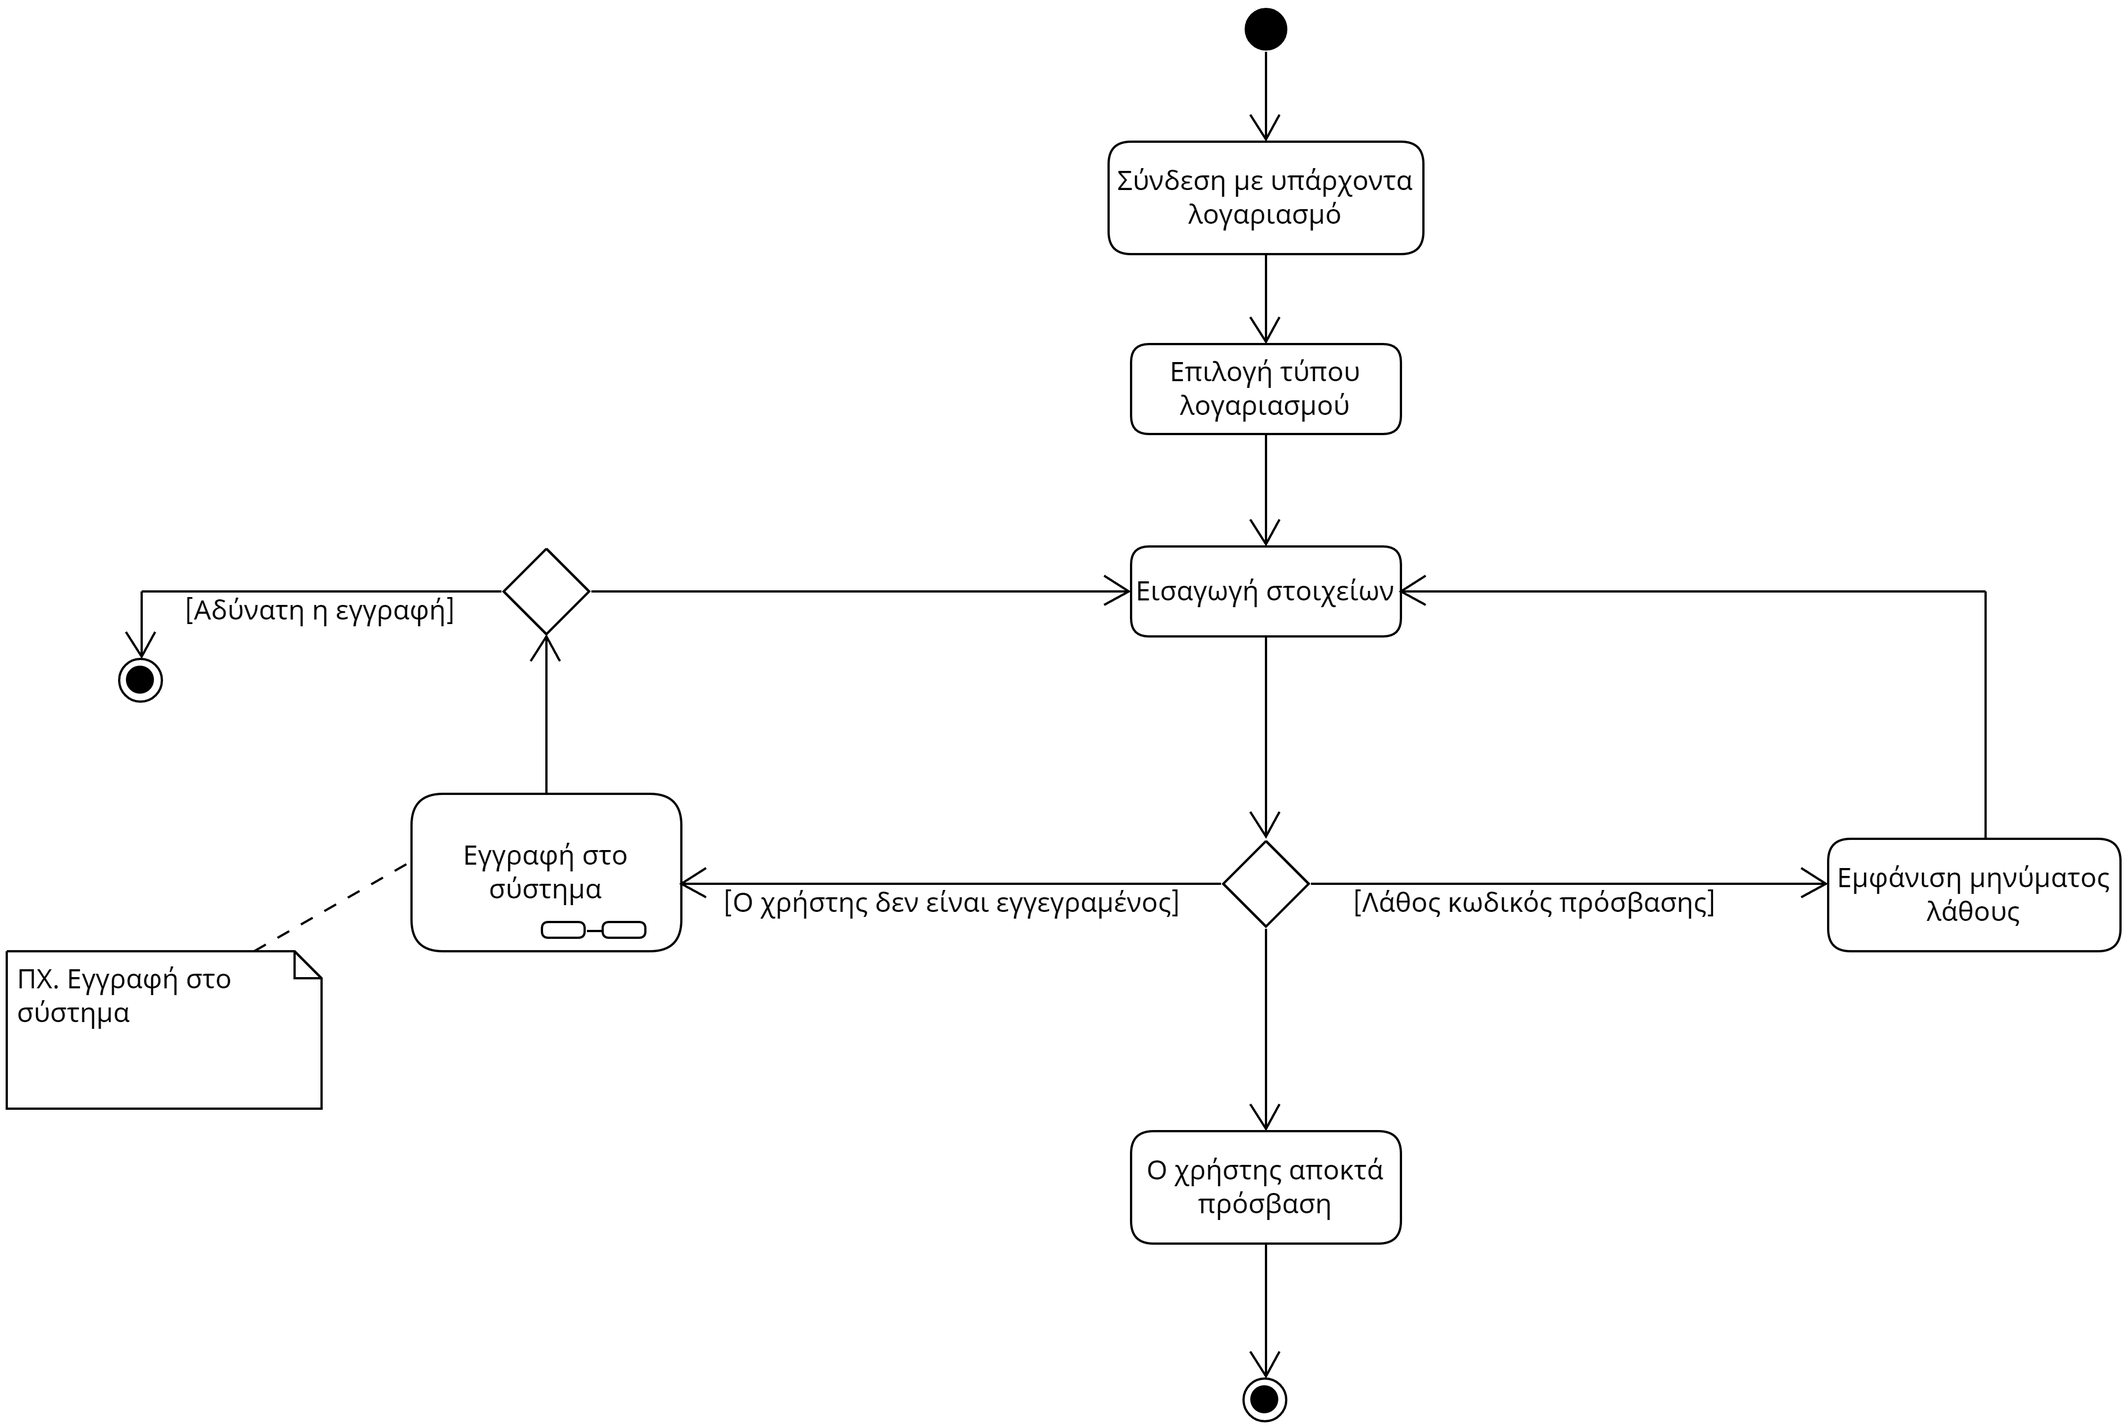
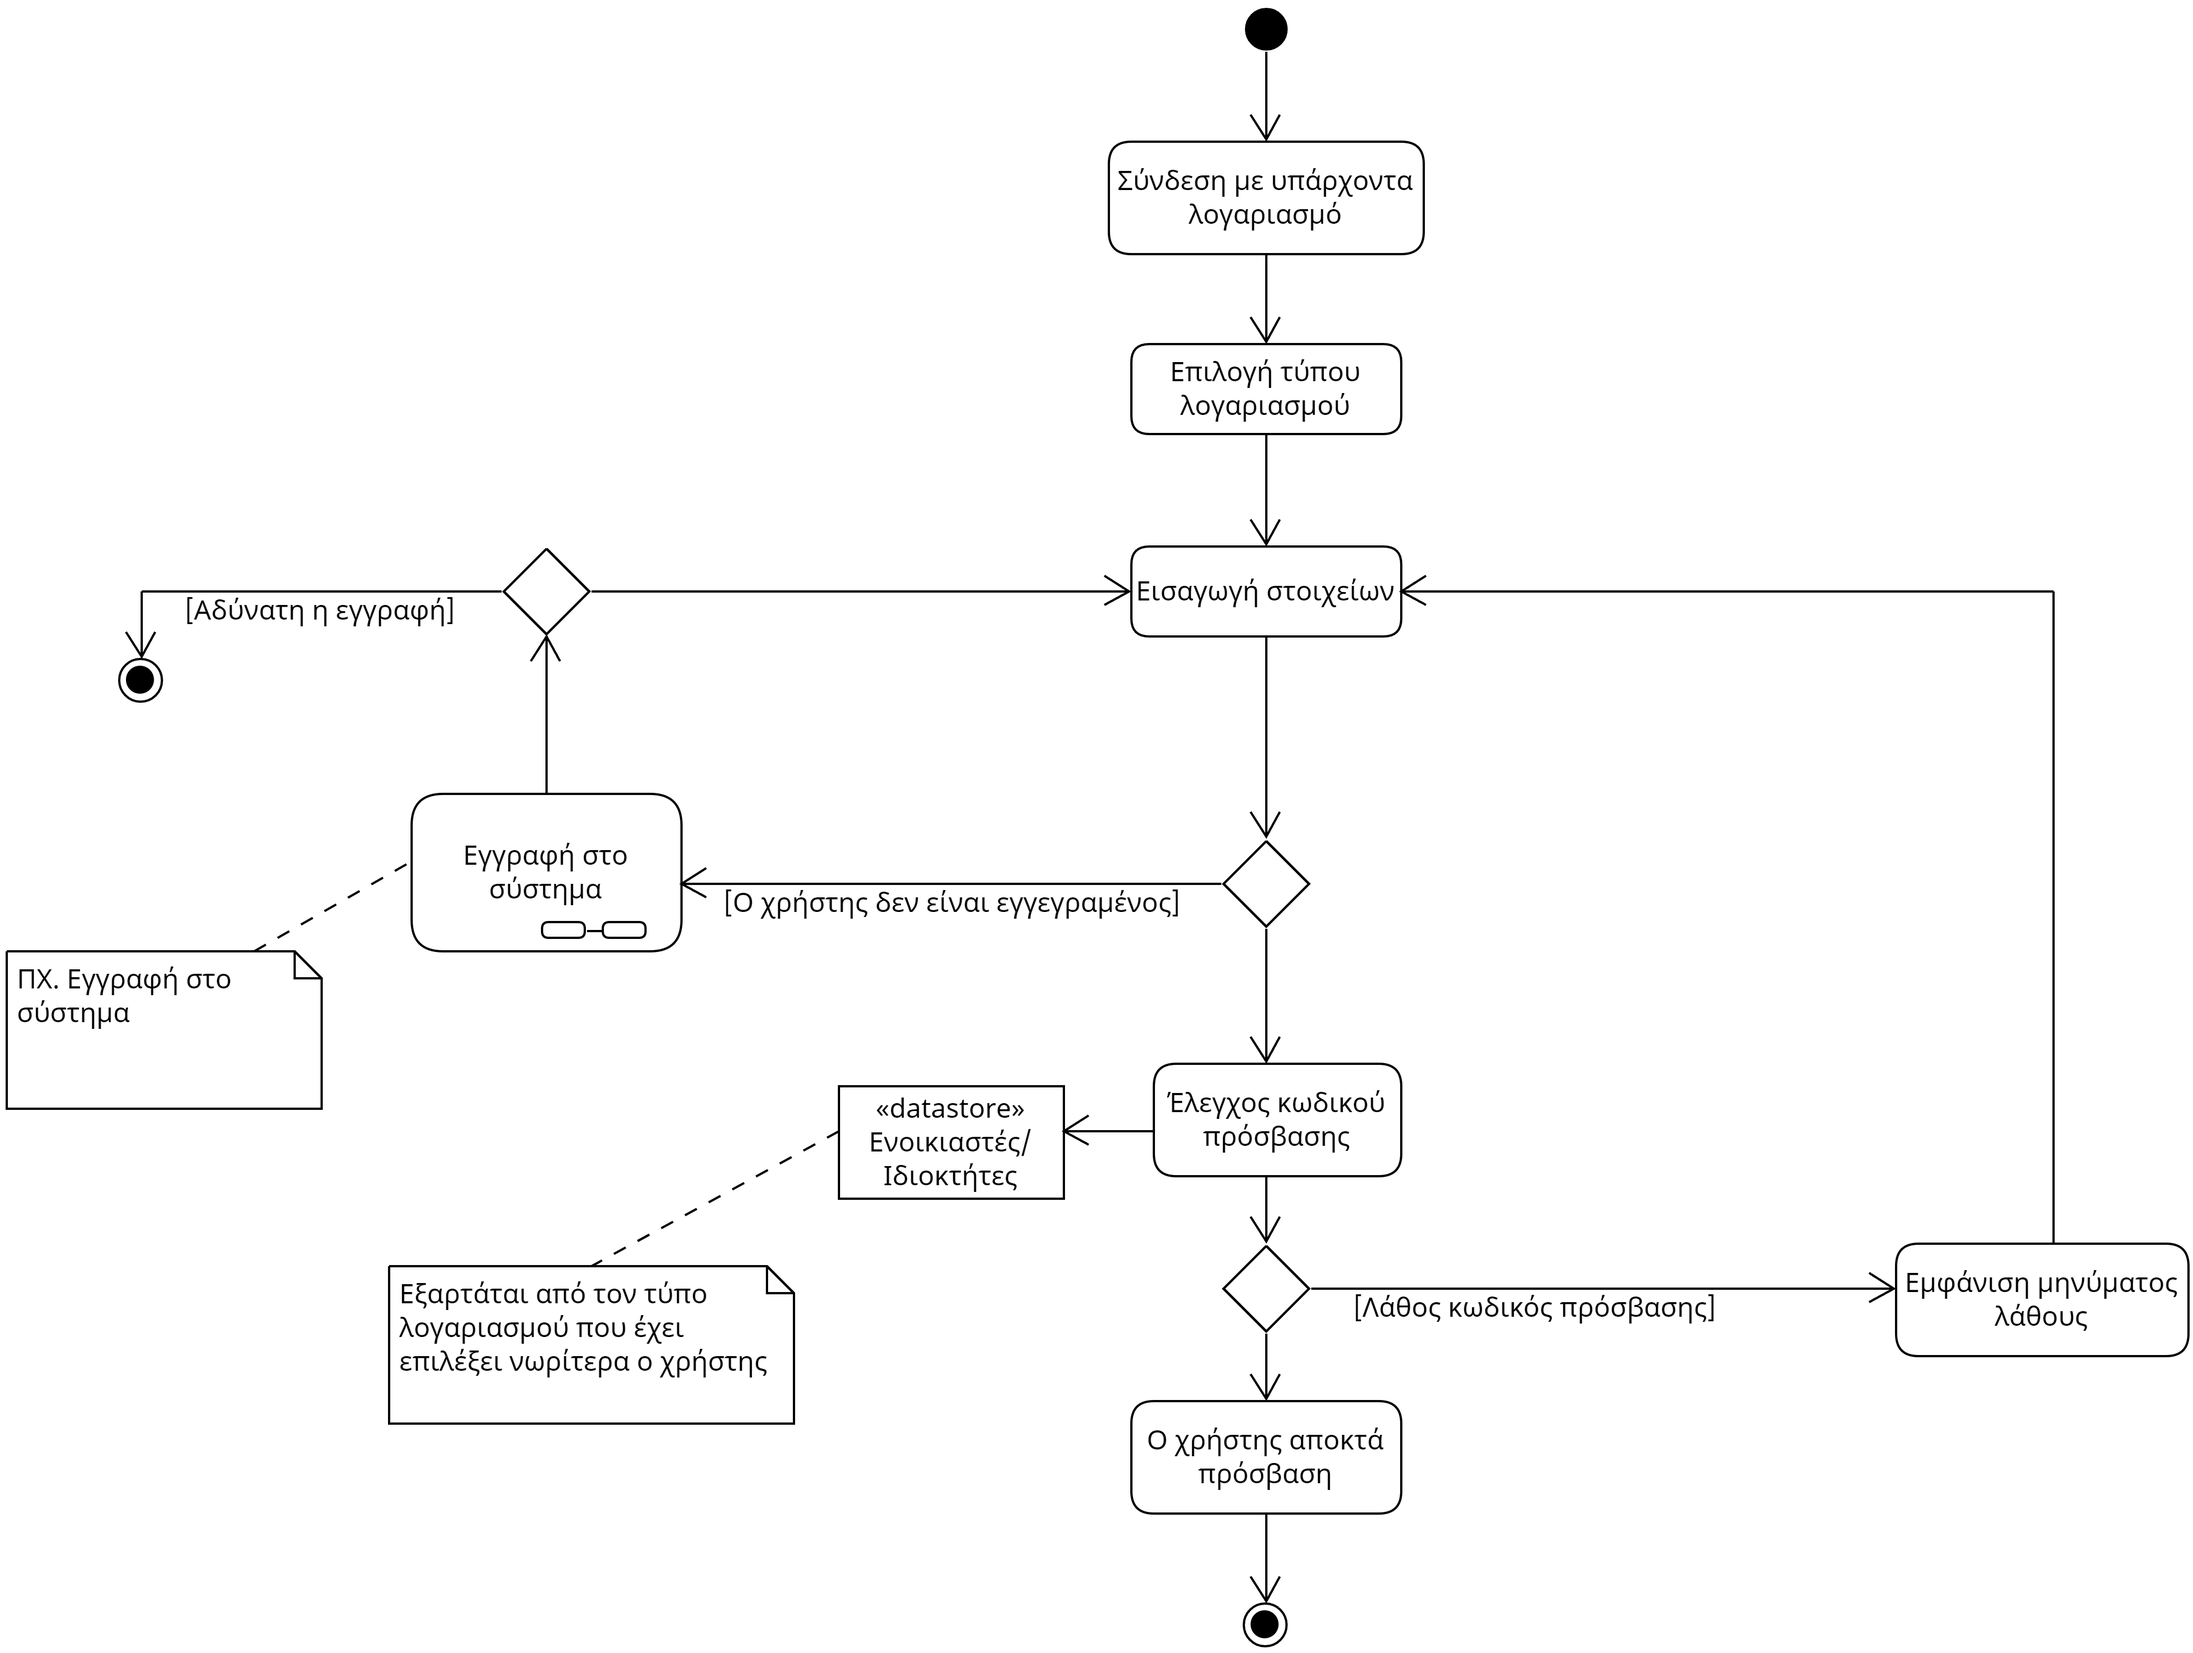
domain model 1.0

diff --git a/docs/markdown/uc7_owner_house_register.md b/docs/markdown/uc7_owner_house_register.md
@@ -13,18 +13,8 @@
 4. Ο ιδιοκτήτης μπορεί να ορίσει διάφορες πολιτικές χρέωσης για συγκεκριμένες χρονικές περιόδους οι οποίες θα είναι μη επικαλυπτόμενες. 
 5. Έλεγχος αν οι πολιτικές χρέωσης υπακούουν τους περιορισμούς που ορίζει το σύστημα ανάλογα με τις ιδιότητες του διαμερίσματος (περιοχή, τετραγωνικά).
 6. Το σύστημα ελέγχει την εγκυρότητα της καταχώρισης.
-7. Ο ιδιοκτήτης επιλέγει αν θέλει να προωθήσει την αγγελία του.
-
-### Β) Ενημέρωση Διαμερίσματος
-1. Ο ιδιοκτήτης επιλέγει να ενημερώσει ένα διαμέρισμα που έχει καταχωρήσει στην εφαρμογή.
-2. Από τα στοιχεία που μπορεί να ενημερώσει, αλλάζει αυτά που θέλει.
-3. Το σύστημα ελέγχει την εγκυρότητα των αλλαγών.
-4. Το σύστημα ενημερώνει την αγγελία.
-
-### Γ) Διαγραφή Καταχώρησης Διαμερίσματος
-1. Ο ιδιοκτήτης επιλέγει να διαγράψει ένα διαμέρισμα που έχει καταχωρήσει.
-2. Έλεγχος αν υπάρχουν κρατήσεις.
-3. Το σύστημα αφαιρεί το διαμέρισμα.
+7. Δίνεται στο διαμέρισμα που καταχωρήθηκε ένα μοναδικό id.
+8. Ο ιδιοκτήτης επιλέγει αν θέλει να προωθήσει την αγγελία του.
 
 ## Εναλλακτικές Ροές
 <b>A)</b> *5α. Οι πολιτικές χρέωσης δεν είναι μέσα στους περιορισμούς*
@@ -36,23 +26,26 @@
 1. Το σύστημα ενημερώνει τον ιδιοκτήτη ότι το διαμέρισμα ήδη έχει καταχωριθεί.
 2. Τερματίζει η περίπτωση χρήσης.
 
-<br>
-<b>B)</b>
-<i>3α. Οι νέες πολιτικές χρέωσης δεν είναι μέσα στους περιορισμούς</i><br><br>
+### Β) Ενημέρωση Διαμερίσματος
+1. Ο ιδιοκτήτης επιλέγει να ενημερώσει ένα διαμέρισμα που έχει καταχωρήσει στην εφαρμογή.
+2. Από τα στοιχεία που μπορεί να ενημερώσει, αλλάζει αυτά που θέλει.
+3. Το σύστημα ελέγχει την εγκυρότητα των αλλαγών.
+   * *3α. Οι νέες πολιτικές χρέωσης δεν είναι μέσα στους περιορισμούς*
+      1. Το σύστημα θα ενημερώνει τον ιδιοκτήτη ότι οι πολιτικές χρέωσης που προσαπάθησε να ορίσει δεν υπακούουν τους περιορισμούς που έχουν οριστεί στα πλαίσια του διαμερίσματός του.
+      2. Επιστροφή στο βήμα 2.
+4. Το σύστημα ενημερώνει την αγγελία.
 
-1. Το σύστημα θα ενημερώνει τον ιδιοκτήτη ότι οι πολιτικές χρέωσης που προσαπάθησε να ορίσει δεν υπακούουν τους περιορισμούς που έχουν οριστεί στα πλαίσια του διαμερίσματός του.
-2. Επιστροφή στο βήμα 2.
-   
-<b>Γ)</b> *2α. Υπάρχουν κρατήσεις στο διαμέρισμα*
-
-1. Ο ιδιοκτήτης ακυρώνει όλες τις κρατήσεις (οπότε οι ενοικιαστές δεν χρεώνονται τίποτα).
-2. Το σύστημα ενημερώνει τους ενοικιαστές πως η κράτηση τους για το διαμέρισμα ακυρώθηκε από τον ιδιοκτήτη.
-3. Το σύστημα επιστρέφει τα χρήματα στους ενοικιαστές.
-4. Συνέχεια στο βήμα 3.
-
-
+### Γ) Διαγραφή Καταχώρησης Διαμερίσματος
+1. Ο ιδιοκτήτης επιλέγει να διαγράψει ένα διαμέρισμα που έχει καταχωρήσει.
+2. Έλεγχος αν υπάρχουν κρατήσεις.
+   * *2α. Υπάρχουν κρατήσεις στο διαμέρισμα*
+     1. Ο ιδιοκτήτης ακυρώνει όλες τις κρατήσεις (οπότε οι ενοικιαστές δεν χρεώνονται τίποτα).
+     2. Το σύστημα ενημερώνει τους ενοικιαστές πως η κράτηση τους για το διαμέρισμα ακυρώθηκε από τον ιδιοκτήτη.
+     3. Το σύστημα επιστρέφει τα χρήματα στους ενοικιαστές.
+     4. Συνέχεια στο βήμα 3.
+3. Το σύστημα αφαιρεί το διαμέρισμα.
 
 ## Διαγράμματα
 
 ### Διάγραμμα δραστηριότητας - Καταχώριση Διαμερίσματος
-![Διάγραμμα δραστηριότητας - Σύνδεση](/docs/markdown/uml/requirements/uc7_owner_house_register.png)
+![Διάγραμμα δραστηριότητας - Σύνδεση](/docs/markdown/uml/requirements/uc7_act_owner_house_register.png)

diff --git a/docs/markdown/uc1_user_account_creation.md b/docs/markdown/uc1_user_account_creation.md
@@ -13,9 +13,11 @@
 1. Ο χρήστης επιλέγει τη δημιουργία νέου λογαριασμού.
 2. Το σύστημα ρωτάει τον χρήστη αν θα ήθελε να δημιουργήσει λογαριασμό ενοικιαστή ή ιδιοκτήτη.
 3. Ο χρήστης εισάγει τα απαραίτητα στοιχεία (όνομα, επώνυμο, email, κωδικό και πιστωτική κάρτα).
-4. Το σύστημα επιβεβαιώνει ότι τα στοιχεία της πιστωτικής κάρτας είναι σωστά
-5. Το σύστημα παράγει έναν νέο αριθμό λογαριασμού και εισάγει την τρέχουσα ημερομηνία ως ημερομηνία ανοίγματος.
-6. Το σύστημα εκτυπώνει τα στοιχεία του λογαριασμού.
+4. Το σύστημα αναζητά στον κατάλογο που είναι καταχωρημένες όλες οι εγγραφές για το συγεκριμένο email που έβαλε ο χρήστης.
+5. Το σύστημα επιβεβαιώνει ότι τα στοιχεία της πιστωτικής κάρτας είναι σωστά.
+6. Το σύστημα παράγει έναν νέο αριθμό λογαριασμού και εισάγει την τρέχουσα ημερομηνία ως ημερομηνία ανοίγματος.
+7. Το σύστημα εκτυπώνει τα στοιχεία του λογαριασμού.
+8. Το σύστημα καταχωρεί όλα τα δεδομένα για την εγγραφή του χρήστη.
 
 ## Εναλλακτικές Ροές
 
@@ -24,7 +26,17 @@
 1. Το σύστημα εμφανίζει ένα μήμυμα σφάλματος για το ποιό στοιχείο ξέχασε να συμπληρώσει ο χρήστης.
 2. Επιστροφή στο βήμα 3.
 
-*4α. Προέκυψε σφάλμα κατά την επαλήθευση των στοιχείων της πιστωτικής κάρτας*
+*3β. Ο χρήστης εισάγει email που ήδη είναι καταχωρημένο*
+
+1. Το σύστημα εμφανίζει ένα μήμυμα σφάλματος ενημερώνοντας τον χρήστη πως αυτό το email ήδη χρησιμοποιείται.
+2. Επιστροφή στο βήμα 3.
+
+*4α. Βρέθηκε χρήστης με παρόμοιο email*
+
+1. Το σύστημα εμφανίζει ένα μήνυμα στον χρήστη ενημερώνοντάς τον για το σφάλμα εγγραφής.
+2. Επιστροφή στο βήμα 3.
+
+*5α. Προέκυψε σφάλμα κατά την επαλήθευση των στοιχείων της πιστωτικής κάρτας*
 
 1. Το σύστημα εμφανίζει ένα μήνυμα σφάλματος σχετικά με τον λόγο για τον οποίο προέκυψε το σφάλμα (πχ η εφαρμογή δεν μπόρεσε να επικοινωνήσει με την τράπεζα ή τα στοιχεία της κάρτας δεν ήταν σωστά).
 2. Επιστροφή στο βήμα 4.
